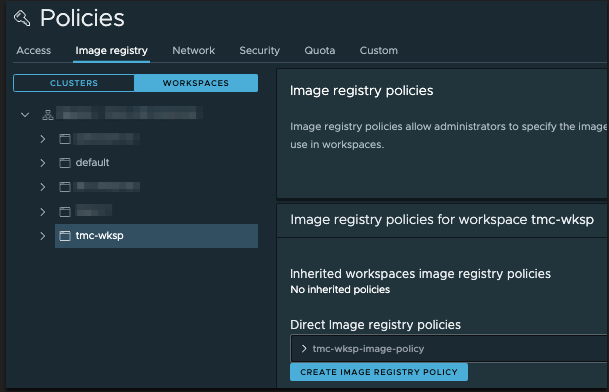
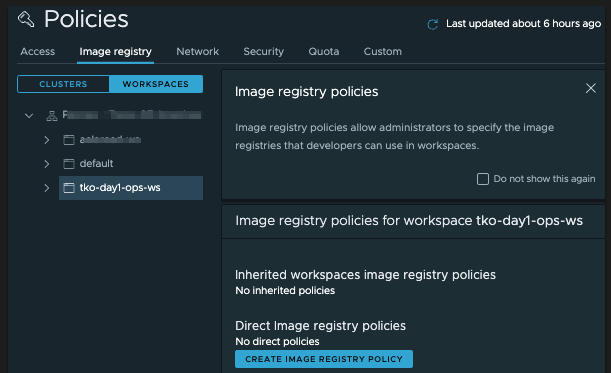
added commands

diff --git a/workshop/content/exercises/04-image-policies.md b/workshop/content/exercises/04-image-policies.md
@@ -27,7 +27,7 @@ Under Image registry template dropdown, select Require Digest:
 
 ![](./images/policy-image-registry-digest-1.png)
 
-Give a name such as *digest-image-policy* and proceed with default values 
+Give it a name such as *digest-image-policy* and proceed with default values 
 for other fields. If needed, you may specify label selectors to 
 include or exclude certain namespaces for this policy. 
 Finally click Create Policy. 
@@ -39,17 +39,17 @@ registry policies to specify a name-tag allowlist, block the latest tag, or even
 
 Once created, you may edit or delete an image registry policy.
 
-Now let us create a custom policy in workspace *tmc-wksh* that blocks any container image that has the name busybox on it: 
+Now let us create a custom policy in workspace *tko-day1-ops-ws* that blocks any container image that has the name busybox on it: 
 
 1. Click Workspaces under the Image Registry tab in the Policies page 
-and select workspace *tmc-wksp*
+and select workspace *tko-day1-ops-ws*
 
 2. Click Create Image Registry Policy
 
   ![](./images/policy-image-registry-custom-1.png)
 
 3. Choose Custom in the Image Registry Template field and give it a name 
-  such as *tmc-wksp-no-busybox* in the Policy Name field. Under the Rule pane, type in
+  such as *no-busybox-image-policy* in the Policy Name field. Under the Rule pane, type in
   *busybox* in the Image Name field. Optionally, you may specify the hostname and port to restrict where the images are pulled from. In addition, you may add more rules by clicking Add Another Rule.
 
   ![](./images/policy-image-registry-custom-2.png)
@@ -58,5 +58,30 @@ and select workspace *tmc-wksp*
 workspace if desired by specifying the Label Selectors fields. At the end, click Create Policy.
 
 Let us validate that our image registry policy is working by trying to deploy 
-the busybox image to the namespace *tmc-ns-01*, which is part of the 
-workspace *tmc-wksp*.
+the busybox image to the namespace *{{ session_namespace }}*, 
+which is part of the workspace *tko-day1-ops-ws*.
+
+Make sure the namespace **{{ session_namespace }}  exists on the cluster;
+```execute-1
+kubectl --kubeconfig=./kubeconfig.yaml get {{ session_namespace }}
+```
+
+Attach the namespace to the workspace *tko-day1-ops-ws*:
+```execute-1
+tmc cluster namespace attach --kubeconfig=./kubeconfig.yaml -n {{ session_namespace }} -k tko-day1-ops-ws -c {{ session_namespace }}-cluster
+```
+
+Create a deployment with the image busybox:
+```execute-1
+kubectl --kubeconfig=./kubeconfig.yaml create deployment busybox-{{ session_namespace }} --image=busybox -n {{ session_namespace }}
+```
+
+Notice the deployment is blocked and won't progress because of the image rules:
+```execute-1
+kubectl --kubeconfig=./kubeconfig.yaml get events --field-selector type=Warning -n {{ session_namespace }}
+```
+Delete the deployment
+```execute-1
+kubectl --kubeconfig=./kubeconfig.yaml delete deployment busybox-{{ session_namespace }} -n {{ session_namespace }}
+```
+
